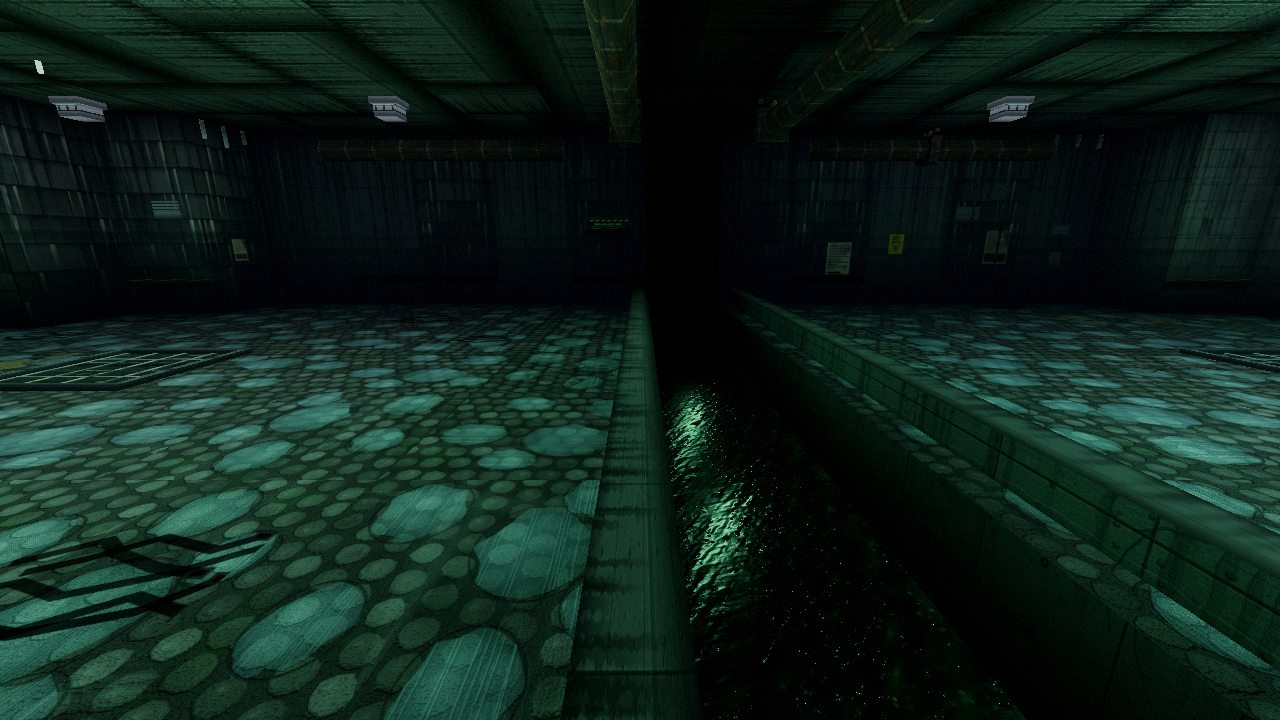
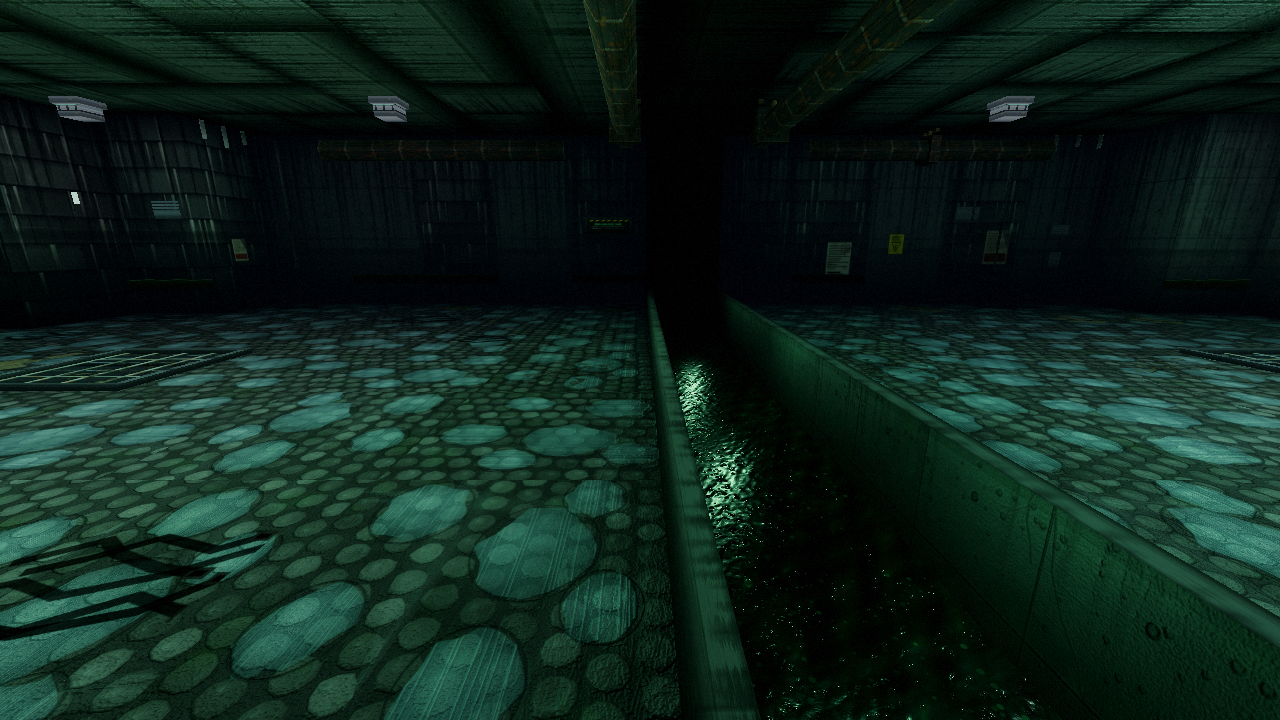
P5c⑤: 面の穴の修正（深水の天井段差・槽の笠石の向き）とスクショの差し替え
自己審査（背景をマゼンタに差し替えて「何も描かれていない画素」を数える）で見つけた穴:
- 深水 V の島が天井 4.6m の幹線と 2.4m の支線にまたがると、天井の段差を誰も埋めず
  2.2m の帯が抜けていた（実測 10.8%/画面）。天井だけ張るマス（深水・槽）を
  「天井高が変わる境界の埋め」の対象に加えて解消（0%）。
- 槽の笠石を**槽の外側**へ寄せていたため、内壁と水面の間に帯状の抜けができ、
  さらに笠石が通路側へ 0.34m はみ出していた。q.n（境界→槽の中心）の符号を直し、
  笠石を細く（0.17m）・槽を浅く（0.55〜0.62m）して水面が浅い角度でも見えるようにした。

残る抜けは画面の 1% 未満で、いずれも 10m 以遠＝霧が飽和した距離にしか出ない。
scene.background はフォグ色と同色（0x05070a）なので実プレイでは周囲と区別がつかない
（実測: 穴の画素 (40,43,40) と隣接画素 (37,40,38)/(35,37,35)）。

diff --git a/js/world.js b/js/world.js
@@ -1200,8 +1200,12 @@
       }
     }
     this._waterCells = waterCells; this._deepCells = deepCells;
+    /* 天井だけ張るマス（深水・槽）。天井高の段差を埋める処理もこの集合を見る
+     * ＝ 4.6m の幹線と 2.4m の支線にまたがる深水の島で、段差に穴が開かない。 */
+    var ceilOnlyAt = Object.create(null);
     for (var dz = 0; dz < deepCells.length; dz++) {
       cells.push({ col: deepCells[dz].col, row: deepCells[dz].row, ceilOnly: true });
+      ceilOnlyAt[deepCells[dz].col + ',' + deepCells[dz].row] = true;
     }
     /* P5c: 沈殿槽などの「槽」（meta.basins）。実体マスを掘って水を張る＝歩けないまま
      * 覗き込める窪み。壁は張らず（_wallFace を飛ばす）天井だけ張る。 */
@@ -1214,6 +1218,7 @@
           if (!map.isSolid(bc, br)) continue;
           basinAt[bc + ',' + br] = bs;
           cells.push({ col: bc, row: br, ceilOnly: true });
+          ceilOnlyAt[bc + ',' + br] = true;
         }
       }
     }
@@ -1295,7 +1300,8 @@
       var SD = [[1, 0], [0, 1]];
       for (var sd = 0; sd < 2; sd++) {
         var nc0 = cc0 + SD[sd][0], nr0 = rr0 + SD[sd][1];
-        if (!map.isWalkable(nc0, nr0) && !furnAt[nc0 + ',' + nr0]) continue;
+        if (!map.isWalkable(nc0, nr0) && !furnAt[nc0 + ',' + nr0] &&
+            !ceilOnlyAt[nc0 + ',' + nr0]) continue;
         var h1 = map.ceilHAt(nc0, nr0);
         if (Math.abs(h1 - h0) < 1e-6) continue;
         var lo = Math.min(h0, h1), hi = Math.max(h0, h1);
@@ -3593,9 +3599,9 @@
 
   /* P5c「槽」（沈殿槽・沈砂池）。実体マスを掘り下げて水を張り、縁に笠石を回す。
    * 歩けないまま覗き込める＝正文「槽の水は覗くな」の絵をそのまま作る。 */
-  var BASIN_DEPTH = 0.85;     /* 縁の天端から水面までの深さ(m) */
-  var BASIN_PARA = 0.52;      /* 笠石の立ち上がり(m) */
-  var BASIN_COPE = 0.34;      /* 笠石の天端の幅(m) */
+  var BASIN_DEPTH = 0.62;     /* 床から水面までの深さ(m)。深すぎると浅い角度で水が見えない */
+  var BASIN_PARA = 0.40;      /* 笠石の立ち上がり(m) */
+  var BASIN_COPE = 0.17;      /* 笠石の天端の幅(m)。太いと水面が隠れる */
 
   World.prototype._sewerBasins = function (B, SH) {
     var at = this._basinAt;
@@ -3627,8 +3633,9 @@
         if (at[nc + ',' + nr]) continue;               /* 槽の中どうしは continue */
         var open = map.isWalkable(nc, nr);
         var q = boundaryOU(T, c, r, dc, dr);
-        /* 内壁（笠石の幅だけ内側へ寄せる＝外面と同一平面にしない） */
-        var ix = -q.n[0] * BASIN_COPE, iz = -q.n[2] * BASIN_COPE;
+        /* 内壁（笠石の幅だけ**槽の内側へ**寄せる＝外面と同一平面にしない）。
+           q.n は境界から槽の中心へ向く向きなので、内側は +q.n。 */
+        var ix = q.n[0] * BASIN_COPE, iz = q.n[2] * BASIN_COPE;
         B.wall.gridP([q.o[0] + ix, sy - 0.18, q.o[2] + iz], q.u, [0, top - sy + 0.18, 0],
           [0, 1], [0, 0.5, 1], 1, (top - sy) / 3,
           SH.planeShader(key, [wt[0] * 0.66, wt[1] * 0.70, wt[2] * 0.70], q.n));
@@ -3638,9 +3645,10 @@
         B.wall.gridP([q.o[0] + q.u[0], fy, q.o[2] + q.u[2]], [-q.u[0], 0, -q.u[2]],
           [0, top - fy, 0], [0, 1], [0, 1], 1, (top - fy) / 3,
           SH.planeShader(key, [wt[0] * 0.98, wt[1] * 1.00, wt[2] * 1.00], on));
-        /* 天端（笠石の上面） */
+        /* 天端（笠石の上面）。境界から槽の内側へ cw だけ。上向きになる向きで積む */
         var cw = BASIN_COPE;
-        B.wall.gridP([q.o[0], top, q.o[2]], q.u, [-q.n[0] * cw, 0, -q.n[2] * cw],
+        B.wall.gridP([q.o[0] + q.u[0], top, q.o[2] + q.u[2]], [-q.u[0], 0, -q.u[2]],
+          [q.n[0] * cw, 0, q.n[2] * cw],
           [0, 1], [0, 1], 1, 1, SH.planeShader(key, [wt[0] * 1.10, wt[1] * 1.12, wt[2] * 1.12], [0, 1, 0]));
       }
     }

diff --git a/js/maps/area2_look.js b/js/maps/area2_look.js
@@ -137,8 +137,8 @@
   /* 「槽」＝実体マスを掘って水を張る（歩けないまま覗き込める）。
      沈殿槽の中心の隔壁列（col 52 / row 18-24）を沈殿池そのものにする。 */
   var basins = [
-    { c0: 52, r0: 18, c1: 52, r1: 24, depth: 0.95, rgb: [0.44, 1.05, 0.62] },  /* 沈殿槽（緑に光る） */
-    { c0: 46, r0: 52, c1: 49, r1: 52, depth: 0.70, rgb: [0.34, 0.34, 0.36] }   /* ポンプ室の油溜まり */
+    { c0: 52, r0: 18, c1: 52, r1: 24, depth: 0.55, rgb: [0.70, 1.45, 0.88] },  /* 沈殿槽（緑に光る） */
+    { c0: 46, r0: 52, c1: 49, r1: 52, depth: 0.50, rgb: [0.50, 0.50, 0.54] }   /* ポンプ室の油溜まり */
   ];
 
   /* 床の格子（下に暗い水面）。歩ける床マスの上に置く＝薄物なので通行の邪魔にならない */
